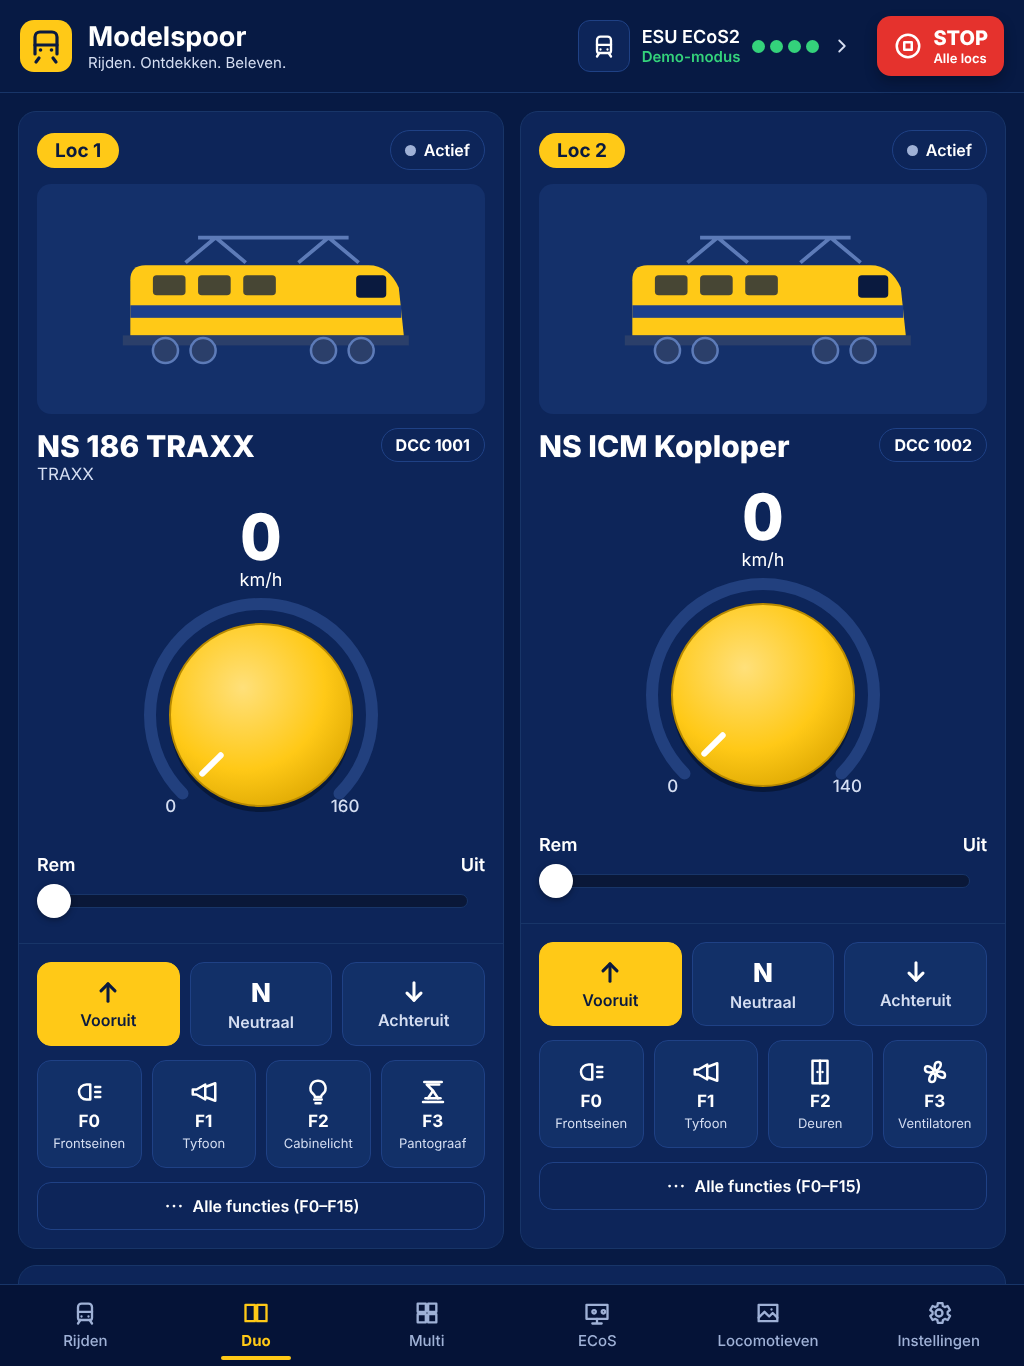
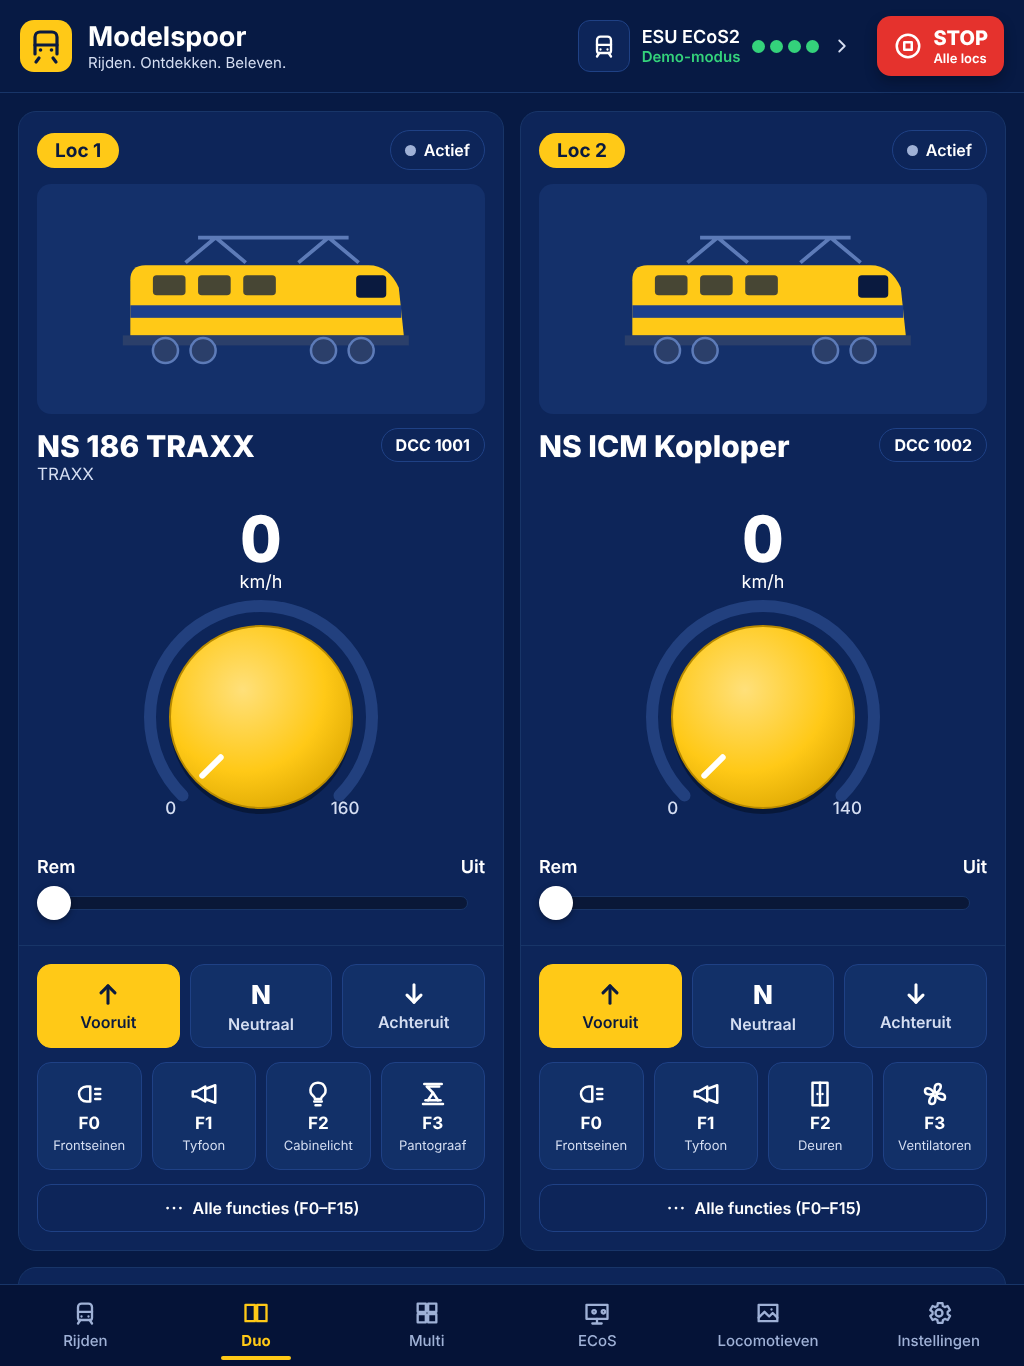
F-functies als drukknoppen met icoontjes op het rijscherm
Claude-Session: https://claude.ai/code/session_01PJfXM2yqVawAmByameb74y

diff --git a/src/components/Loco.tsx b/src/components/Loco.tsx
@@ -6,7 +6,6 @@ import { useEcos } from '../store/ecos';
 import type { FunctionView } from '../store/hooks';
 import { C, F, R } from '../theme';
 import { Icon } from './Icon';
-import { Toggle } from './ui';
 
 /** Foto van de loc, of een getekende loc als er nog geen foto is. */
 export function LocoPhoto({ uri, style, rounded = R.md, hint = false }: { uri?: string; style?: StyleProp<ViewStyle>; rounded?: number; hint?: boolean }) {
@@ -89,42 +88,43 @@ function fnHandlers(id: number, f: FunctionView) {
   return { onPress: () => toggleFunction(id, f.n) };
 }
 
-/** Functie als rij met schakelaar (zoals in de rechterkolom van de mockup). */
-export function FunctionRow({ id, f }: { id: number; f: FunctionView }) {
+/** Functie als grote drukknop met icoon (rijscherm). Geel = aan. */
+export function FunctionButton({ id, f }: { id: number; f: FunctionView }) {
+  const fg = f.on ? C.ink : C.text;
   return (
     <Pressable
-      accessibilityRole="switch"
-      accessibilityState={{ checked: f.on }}
-      aria-checked={f.on}
-      accessibilityLabel={`F${f.n} ${f.label}`}
+      accessibilityRole="button"
+      accessibilityState={{ selected: f.on }}
+      aria-pressed={f.on}
+      accessibilityLabel={`F${f.n} ${f.label}${f.moment ? ', vasthouden' : ''}`}
       {...fnHandlers(id, f)}
       style={({ pressed }) => [
         {
-          flexDirection: 'row',
-          alignItems: 'center',
-          gap: 12,
+          flexBasis: '46%',
+          flexGrow: 1,
+          minHeight: 112,
           padding: 10,
           borderRadius: R.md,
-          backgroundColor: f.on ? C.panelHi : C.panel2,
-          borderWidth: 1,
-          borderColor: f.on ? '#3B5DA8' : C.borderSoft,
+          alignItems: 'center',
+          justifyContent: 'center',
+          gap: 6,
+          backgroundColor: f.on ? C.yellow : C.panel2,
+          borderWidth: 1.5,
+          borderColor: f.on ? C.yellow : C.border,
         },
-        pressed ? { opacity: 0.85 } : null,
+        pressed ? { transform: [{ scale: 0.96 }], opacity: 0.9 } : null,
       ]}
     >
-      <View style={{ width: 54, height: 54, borderRadius: 12, backgroundColor: '#0A1D49', alignItems: 'center', justifyContent: 'center' }}>
-        <Text style={{ color: C.text, fontSize: 22, fontWeight: F.heavy }}>F{f.n}</Text>
-      </View>
-      <View style={{ flex: 1, gap: 4 }}>
-        <Icon name={f.icon} size={28} color={f.on ? C.yellow : C.text} />
-        <Text style={{ color: C.textSoft, fontSize: 15 }} numberOfLines={1}>
-          {f.label}
-          {f.moment ? '  ·  vasthouden' : ''}
-        </Text>
-      </View>
-      <View pointerEvents="none">
-        <Toggle value={f.on} />
-      </View>
+      <Text style={{ position: 'absolute', top: 8, left: 10, color: fg, fontSize: 16, fontWeight: F.heavy }}>F{f.n}</Text>
+      {f.moment ? (
+        <View style={{ position: 'absolute', top: 8, right: 8 }}>
+          <Icon name="hand" size={16} color={f.on ? C.ink : C.muted} />
+        </View>
+      ) : null}
+      <Icon name={f.icon} size={36} color={fg} />
+      <Text style={{ color: f.on ? C.ink : C.textSoft, fontSize: 14, fontWeight: F.semi, textAlign: 'center' }} numberOfLines={2}>
+        {f.label}
+      </Text>
     </Pressable>
   );
 }

diff --git a/src/components/LocoEditor.tsx b/src/components/LocoEditor.tsx
@@ -202,7 +202,7 @@ export function LocoEditor({ id, visible, onClose }: { id: number | null; visibl
           <View style={{ gap: 10 }}>
             <Text style={{ color: C.text, fontSize: 20, fontWeight: F.bold }}>Functies</Text>
             <Text style={{ color: C.muted, fontSize: 14 }}>
-              Pas namen en iconen aan, maak een functie een drukknop (vasthouden), verberg hem, of zet hem als snelknop (maximaal 2) op het rijscherm.
+              Pas namen en iconen aan, laat een functie alleen werken zolang je drukt (zoals een tyfoon), verberg hem, of zet hem als snelknop (maximaal 2) op het rijscherm.
             </Text>
             {fnNumbers.map((n) => {
               const base = fnBase(n);
@@ -220,7 +220,7 @@ export function LocoEditor({ id, visible, onClose }: { id: number | null; visibl
                     <Icon name={o.icon || base.icon} size={26} color={o.hidden ? C.muted : C.yellow} />
                     <Text style={{ color: o.hidden ? C.muted : C.text, fontSize: 17, flex: 1 }}>{o.label || base.label}</Text>
                     {quick.includes(n) ? <Text style={{ color: C.yellow, fontSize: 13, fontWeight: F.bold }}>SNELKNOP</Text> : null}
-                    {(o.moment ?? base.moment) ? <Text style={{ color: C.muted, fontSize: 13 }}>drukknop</Text> : null}
+                    {(o.moment ?? base.moment) ? <Text style={{ color: C.muted, fontSize: 13 }}>vasthouden</Text> : null}
                     <Icon name={open ? 'chevronDown' : 'chevronRight'} size={20} color={C.muted} />
                   </Pressable>
                   {open ? (
@@ -252,8 +252,8 @@ export function LocoEditor({ id, visible, onClose }: { id: number | null; visibl
                       </ScrollView>
                       <View style={{ flexDirection: 'row', flexWrap: 'wrap', gap: 24 }}>
                         <View style={{ flexDirection: 'row', alignItems: 'center', gap: 10 }}>
-                          <Toggle value={o.moment ?? base.moment} onChange={(v) => setFn(n, { moment: v })} label="Drukknop" />
-                          <Text style={{ color: C.text, fontSize: 16 }}>Drukknop (vasthouden)</Text>
+                          <Toggle value={o.moment ?? base.moment} onChange={(v) => setFn(n, { moment: v })} label="Alleen actief zolang je drukt" />
+                          <Text style={{ color: C.text, fontSize: 16 }}>Alleen actief zolang je drukt</Text>
                         </View>
                         <View style={{ flexDirection: 'row', alignItems: 'center', gap: 10 }}>
                           <Toggle value={quick.includes(n)} onChange={() => toggleQuick(n)} label="Snelknop" />

diff --git a/src/ecos/symbols.ts b/src/ecos/symbols.ts
@@ -3,12 +3,12 @@ import type { IconName } from '../components/Icon';
 // ECoS functiesymbolen (uit de ESU PC-interface specificatie, tabel 8.2)
 // vertaald naar een icoon en een Nederlands label.
 const EXACT: Record<number, { icon: IconName; label: string }> = {
-  2: { icon: 'more', label: 'Functie' },
+  2: { icon: 'button', label: 'Functie' },
   3: { icon: 'headlight', label: 'Frontseinen' },
   4: { icon: 'headlight', label: 'Licht voor' },
   5: { icon: 'taillight', label: 'Licht achter' },
   7: { icon: 'sound', label: 'Geluid' },
-  8: { icon: 'sound', label: 'Muziek' },
+  8: { icon: 'music', label: 'Muziek' },
   9: { icon: 'speaker', label: 'Omroep' },
   10: { icon: 'shunting', label: 'Rangeerstand' },
   11: { icon: 'gauge', label: 'Optrekvertraging uit' },
@@ -43,7 +43,7 @@ const EXACT: Record<number, { icon: IconName; label: string }> = {
 /** Keuzelijst voor het bewerken van functies in de bibliotheek. */
 export const FUNCTION_ICON_CHOICES: IconName[] = [
   'headlight', 'taillight', 'light', 'horn', 'sound', 'speaker', 'bell', 'fan', 'compressor', 'pantograph',
-  'coupling', 'driver', 'cabin', 'door', 'shunting', 'brake', 'steam', 'smoke', 'snow', 'gauge', 'more',
+  'coupling', 'driver', 'cabin', 'door', 'shunting', 'brake', 'steam', 'smoke', 'snow', 'gauge', 'music', 'bolt', 'star', 'button',
 ];
 
 export function describeSymbol(symbol: number | undefined, n: number): { icon: IconName; label: string } {
@@ -53,5 +53,5 @@ export function describeSymbol(symbol: number | undefined, n: number): { icon: I
     if (EXACT[low]) return EXACT[low];
   }
   if (n === 0) return { icon: 'headlight', label: 'Licht' };
-  return { icon: 'more', label: `Functie ${n}` };
+  return { icon: 'button', label: `Functie ${n}` };
 }

diff --git a/src/app/index.tsx b/src/app/index.tsx
@@ -3,7 +3,7 @@ import React, { useState } from 'react';
 import { Pressable, ScrollView, StyleSheet, Text, View, useWindowDimensions } from 'react-native';
 import { LocoPicker } from '../components/Dialogs';
 import { Icon } from '../components/Icon';
-import { DirectionButtons, FunctionRow, LocoPhoto, QuickFunction } from '../components/Loco';
+import { DirectionButtons, FunctionButton, LocoPhoto, QuickFunction } from '../components/Loco';
 import { NotConnected } from '../components/Chrome';
 import { BrakePanel, EmergencyStopButton, LiveStatusPanel, RoutesPanel } from '../components/Panels';
 import { SpeedKnob } from '../components/SpeedKnob';
@@ -104,10 +104,10 @@ export default function DriveScreen() {
     <Panel style={{ flex: wide ? 1 : undefined, padding: 10, minHeight: wide ? undefined : 420 }}>
       <Text style={{ color: C.text, fontSize: 19, fontWeight: F.bold, margin: 6 }}>Functies</Text>
       <View style={{ flex: 1 }}>
-        <ScrollView style={wide ? StyleSheet.absoluteFill : undefined} contentContainerStyle={{ gap: 8, paddingBottom: 6 }}>
+        <ScrollView style={wide ? StyleSheet.absoluteFill : undefined} contentContainerStyle={{ flexDirection: 'row', flexWrap: 'wrap', gap: 8, paddingBottom: 6 }}>
           {!loco.detailsLoaded ? <Text style={{ color: C.muted, fontSize: 16, padding: 8 }}>Functies laden…</Text> : null}
           {funcs.map((f) => (
-            <FunctionRow key={f.n} id={id} f={f} />
+            <FunctionButton key={f.n} id={id} f={f} />
           ))}
         </ScrollView>
       </View>

diff --git a/src/components/Icon.tsx b/src/components/Icon.tsx
@@ -23,6 +23,9 @@ const PATHS: Record<string, string[]> = {
   shunting: ['M3 12h18', 'M7 8l-4 4 4 4M17 8l4 4-4 4'],
   speaker: ['M3 10h4l5-4v12l-5-4H3z', 'M16 9l5 6M21 9l-5 6'],
   more: ['M5 12h.01M12 12h.01M19 12h.01'],
+  button: ['M4 7a3 3 0 0 1 3-3h10a3 3 0 0 1 3 3v10a3 3 0 0 1-3 3H7a3 3 0 0 1-3-3z', 'M12 15.5a3.5 3.5 0 1 0 0-7 3.5 3.5 0 0 0 0 7z'],
+  hand: ['M9 11V5a1.5 1.5 0 0 1 3 0v5', 'M12 10V4a1.5 1.5 0 0 1 3 0v6', 'M15 10V6a1.5 1.5 0 0 1 3 0v8a6 6 0 0 1-6 6h-1a6 6 0 0 1-5-2.7L3.5 14a1.5 1.5 0 0 1 2.5-1.7L9 15'],
+  music: ['M9 18V5l11-2v13', 'M6 21a3 3 0 1 0 0-6 3 3 0 0 0 0 6zM17 19a3 3 0 1 0 0-6 3 3 0 0 0 0 6z'],
   warning: ['M12 3L2 20h20z', 'M12 10v4M12 17h.01'],
   stopSquare: ['M12 12m-9 0a9 9 0 1 0 18 0a9 9 0 1 0-18 0', 'M9 9h6v6H9z'],
   play: ['M8 5l11 7-11 7z'],

diff --git a/README.md b/README.md
@@ -5,7 +5,7 @@ iPad-app (React Native / Expo) om je modeltreinen te besturen via een **ESU ECoS
 ## Wat kan de app
 
 - **Verbinden** met de ECoS via wifi (TCP-poort 15471), met automatisch opnieuw verbinden.
-- **Rijden**: grote snelheidsknop met km/h, Vooruit/Neutraal/Achteruit, rem, noodstop en alle functies F0–F31 per loc. Drukknoppen (zoals de tyfoon) werken zolang je ze vasthoudt.
+- **Rijden**: grote snelheidsknop met km/h, Vooruit/Neutraal/Achteruit, rem, noodstop en alle functies F0–F31 per loc als drukknoppen met icoontjes (geel = aan). Functies zoals de tyfoon (met handje) werken zolang je ze vasthoudt.
 - **Duo**: twee locs naast elkaar besturen.
 - **Multi**: tien locs tegelijk, in twee rijen van vijf.
 - **ECoS**: een nagebouwd ECoS-bedienpaneel met twee draaiknoppen, STOP/GO en een aanraakscherm voor locs, functies en wissels. Het werkt met live gegevens uit je centrale. De ECoS zelf kan zijn scherm niet over het netwerk delen, daarom bouwt de app het na.
